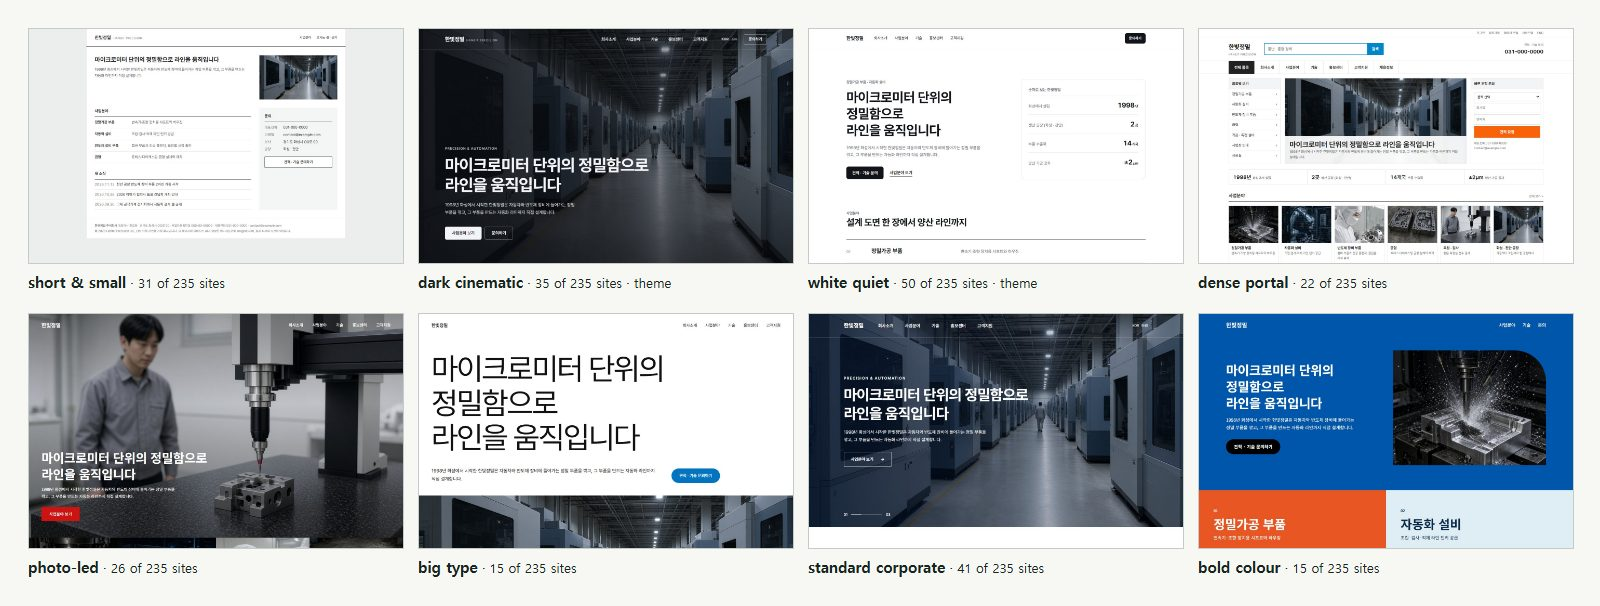
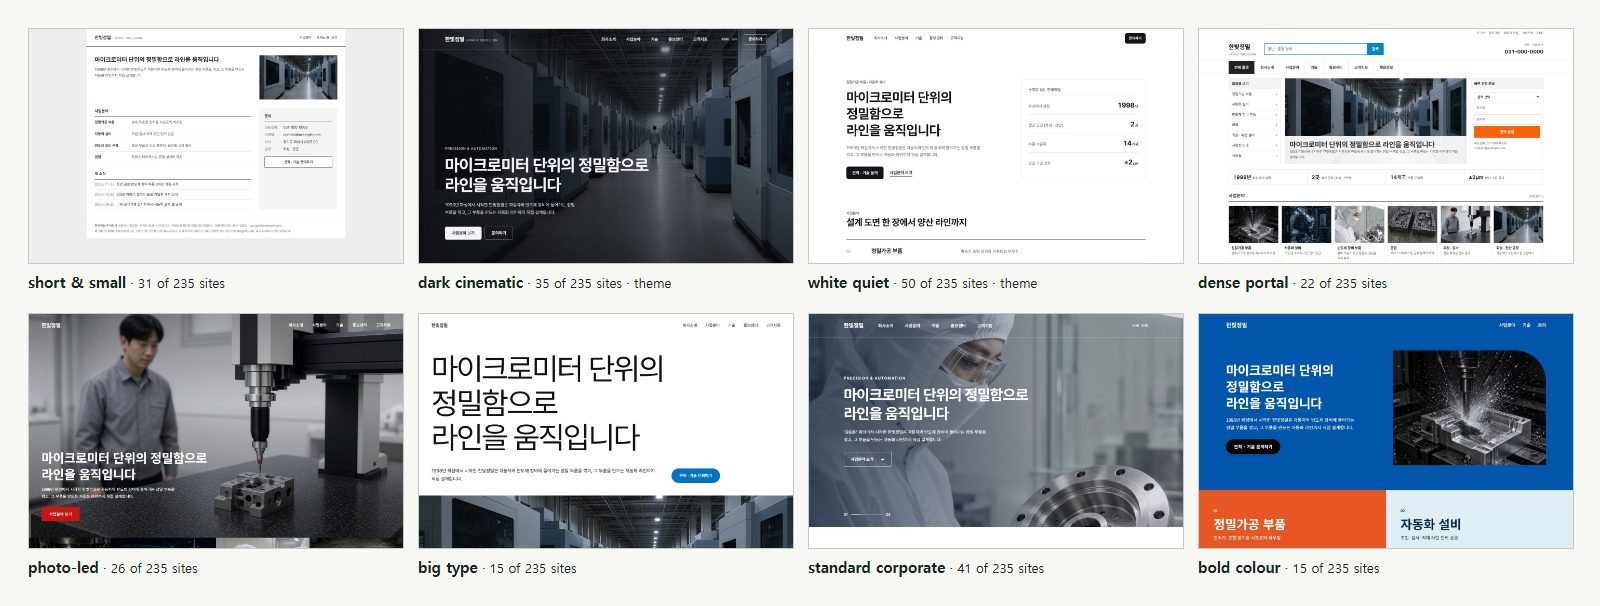
Give the standard-corporate demonstration its own hero photograph
Its first screen used the same factory aisle as the dark theme sample, so the
two looked alike in the README figure.

Changed region(s): [[0.5, 0.505, 0.75, 0.8911]]

diff --git a/docs/archetype-demo/kr-business/corporate.html b/docs/archetype-demo/kr-business/corporate.html
@@ -32,7 +32,7 @@ section{padding:100px 0}.title{text-align:center;margin-bottom:48px}.title small
 <body>
 <header class="head"><div class="wrap"><a class="logo" href="#">한빛정밀</a><nav aria-label="주 메뉴"><a href="#about">회사소개</a><a href="#business">사업분야</a><a href="#technology">기술</a><a href="#news">홍보센터</a><a href="#inquiry">고객지원</a></nav><div class="lang" aria-label="언어 선택"><a href="#" aria-current="true">KOR</a><a href="#" lang="en">ENG</a></div></div></header>
 <main>
-<div class="hero" id="about"><img src="../../../skills/ui-refiner-agent/reference/themes/kr-business-dark/assets/generated/hero-line.jpg" width="1920" height="1080" alt="정밀가공 공장의 긴 통로 양옆으로 CNC 가공기가 줄지어 서 있고, 작업자 한 명이 멀리 걸어가는 모습" style="object-position:50% 60%" fetchpriority="high" data-generated><div class="wrap"><small>PRECISION &amp; AUTOMATION</small><h1><span>마이크로미터 단위의 정밀함으로</span> <span>라인을 움직입니다</span></h1><p>1998년 화성에서 시작한 한빛정밀은 자동차와 반도체 장비에 들어가는 정밀 부품을 깎고, 그 부품을 만드는 자동화 라인까지 직접 설계합니다.</p><a class="btn" href="#business">사업분야 보기</a></div><div class="pager" aria-hidden="true"><div class="wrap"><span>01</span><i></i><span>03</span></div></div></div>
+<div class="hero" id="about"><img src="../../../skills/ui-refiner-agent/reference/themes/kr-business-dark/assets/generated/tile-semicon.jpg" width="1200" height="1600" alt="방진복을 입은 기술자가 검사등 아래에서 스테인리스 장비 부품을 살펴보는 모습" style="object-position:50% 38%" fetchpriority="high" data-generated><div class="wrap"><small>PRECISION &amp; AUTOMATION</small><h1><span>마이크로미터 단위의 정밀함으로</span> <span>라인을 움직입니다</span></h1><p>1998년 화성에서 시작한 한빛정밀은 자동차와 반도체 장비에 들어가는 정밀 부품을 깎고, 그 부품을 만드는 자동화 라인까지 직접 설계합니다.</p><a class="btn" href="#business">사업분야 보기</a></div><div class="pager" aria-hidden="true"><div class="wrap"><span>01</span><i></i><span>03</span></div></div></div>
 <section id="business"><div class="wrap"><div class="title"><small>BUSINESS</small><h2>사업분야</h2><p>설계 도면 한 장에서 양산 라인까지, 네 개 사업부가 한 공장 안에서 이어집니다.</p></div><div class="cards"><a href="#"><img src="../../../skills/ui-refiner-agent/reference/themes/kr-business-dark/assets/generated/tile-machining.jpg" width="1200" height="1600" alt="CNC 가공기 주축이 절삭유를 뿌리며 알루미늄 부품을 깎는 모습" style="object-position:50% 62%" loading="lazy" data-generated><div><h3>정밀가공 부품</h3><p>변속기·조향 장치용 샤프트와 하우징</p><span>자세히 보기 +</span></div></a><a href="#"><img src="../../../skills/ui-refiner-agent/reference/themes/kr-business-dark/assets/generated/tile-automation.jpg" width="1200" height="1600" alt="안전 펜스 너머로 로봇 팔이 지그 위의 금속 부품을 조립하는 자동화 셀" style="object-position:45% 40%" loading="lazy" data-generated><div><h3>자동화 설비</h3><p>조립·검사·적재 라인 턴키 공급</p><span>자세히 보기 +</span></div></a><a href="#"><img src="../../../skills/ui-refiner-agent/reference/themes/kr-business-dark/assets/generated/tile-semicon.jpg" width="1200" height="1600" alt="방진복을 입은 기술자가 검사등 아래에서 스테인리스 장비 부품을 살펴보는 모습" style="object-position:50% 40%" loading="lazy" data-generated><div><h3>반도체 장비 부품</h3><p>챔버 부품과 진공 플랜지, 클린룸 세정 출하</p><span>자세히 보기 +</span></div></a><a href="#"><img src="../../../skills/ui-refiner-agent/reference/themes/kr-business-dark/assets/generated/tile-mold.jpg" width="1200" height="1600" alt="공장 바닥에 놓인 다이캐스팅 금형 상·하형 두 짝" style="object-position:50% 55%" loading="lazy" data-generated><div><h3>금형</h3><p>프레스·다이캐스팅 금형 설계와 제작</p><span>자세히 보기 +</span></div></a></div></div></section>
 <ul class="figs" aria-label="숫자로 보는 한빛정밀"><li><b class="num">1998<small>년</small></b>화성에서 설립</li><li><b class="num">2<small>곳</small></b>생산 공장 (화성 · 천안)</li><li><b class="num">14<small>개국</small></b>부품 수출국</li><li><b class="num">±2<small>μm</small></b>양산 가공 공차</li></ul>
 <section class="grey" id="technology"><div class="wrap tech"><img src="../../../skills/ui-refiner-agent/reference/themes/kr-business-dark/assets/generated/tech-measure.jpg" width="1650" height="1100" alt="항온 측정실에서 3차원 측정기 프로브가 정밀 부품을 측정하고, 뒤에서 엔지니어가 지켜보는 모습" style="object-position:60% 50%" loading="lazy" data-generated><div><small>TECHNOLOGY</small><h2>가공부터 조립까지 한 공장에서 검증합니다</h2><p>부품을 깎는 팀과 라인을 짜는 팀이 같은 바닥에서 일하기 때문에, 공차 문제는 도면 단계에서 먼저 걸러집니다.</p><ol><li><b class="num">01</b><div><strong>5축 동시 가공</strong><p>복합 형상 부품을 한 번의 셋업으로 끝내 누적 오차를 줄입니다.</p></div></li><li><b class="num">02</b><div><strong>항온 측정실 전수 검사</strong><p>20℃로 유지되는 측정실에서 3차원 측정기로 출하 전 치수를 확인합니다.</p></div></li><li><b class="num">03</b><div><strong>자체 설계 자동화 셀</strong><p>우리 라인에서 먼저 돌려 본 셀만 고객사 공장에 들어갑니다.</p></div></li></ol></div></div></section>
